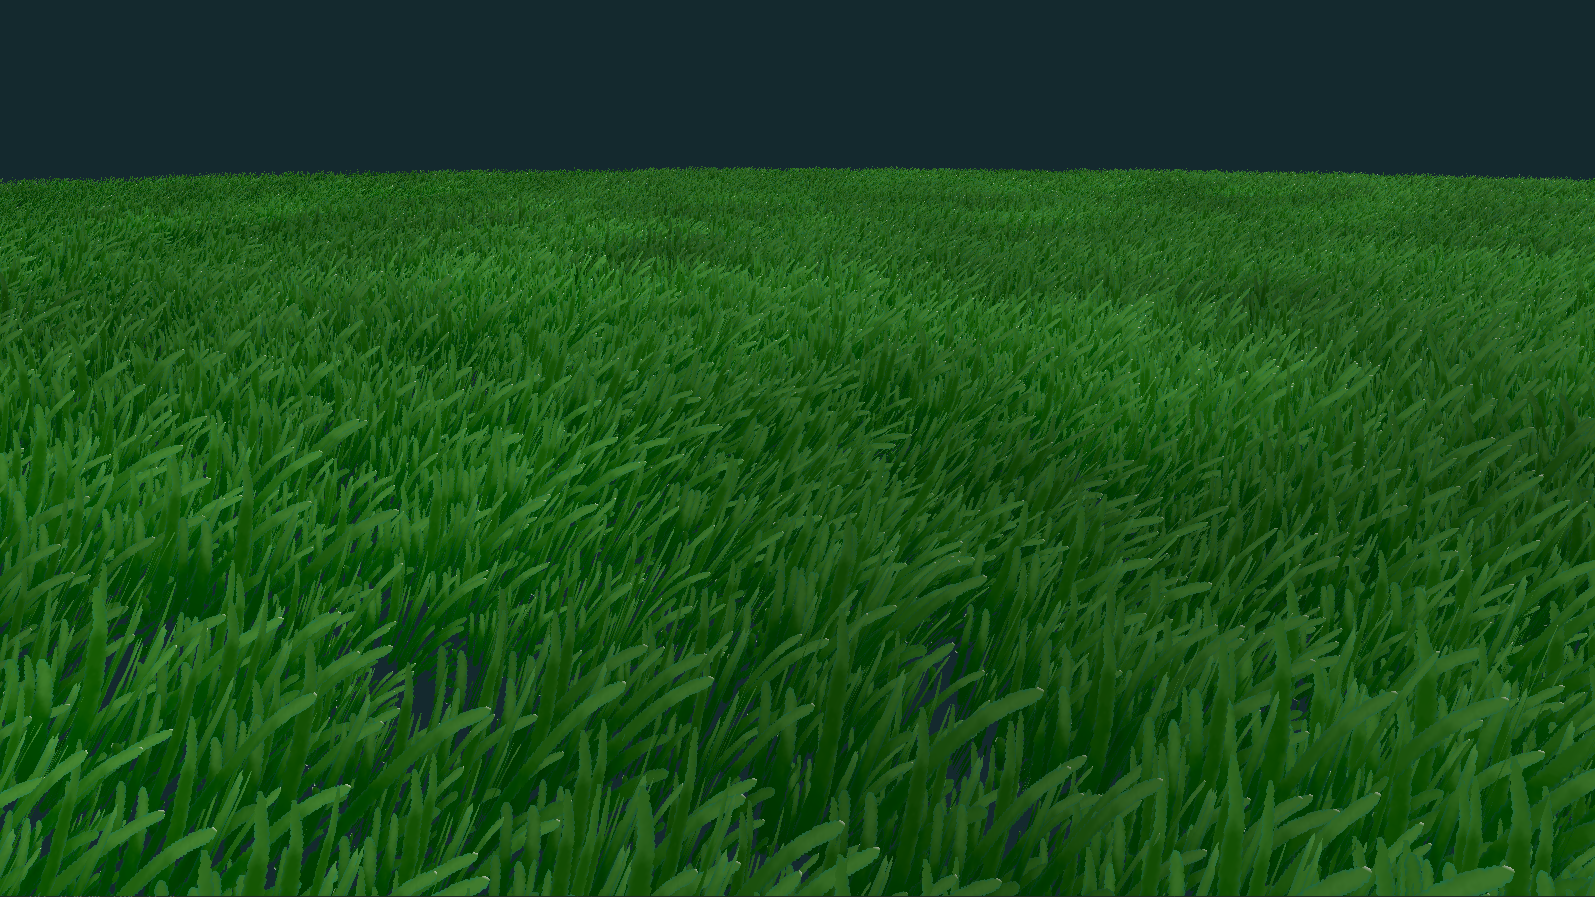
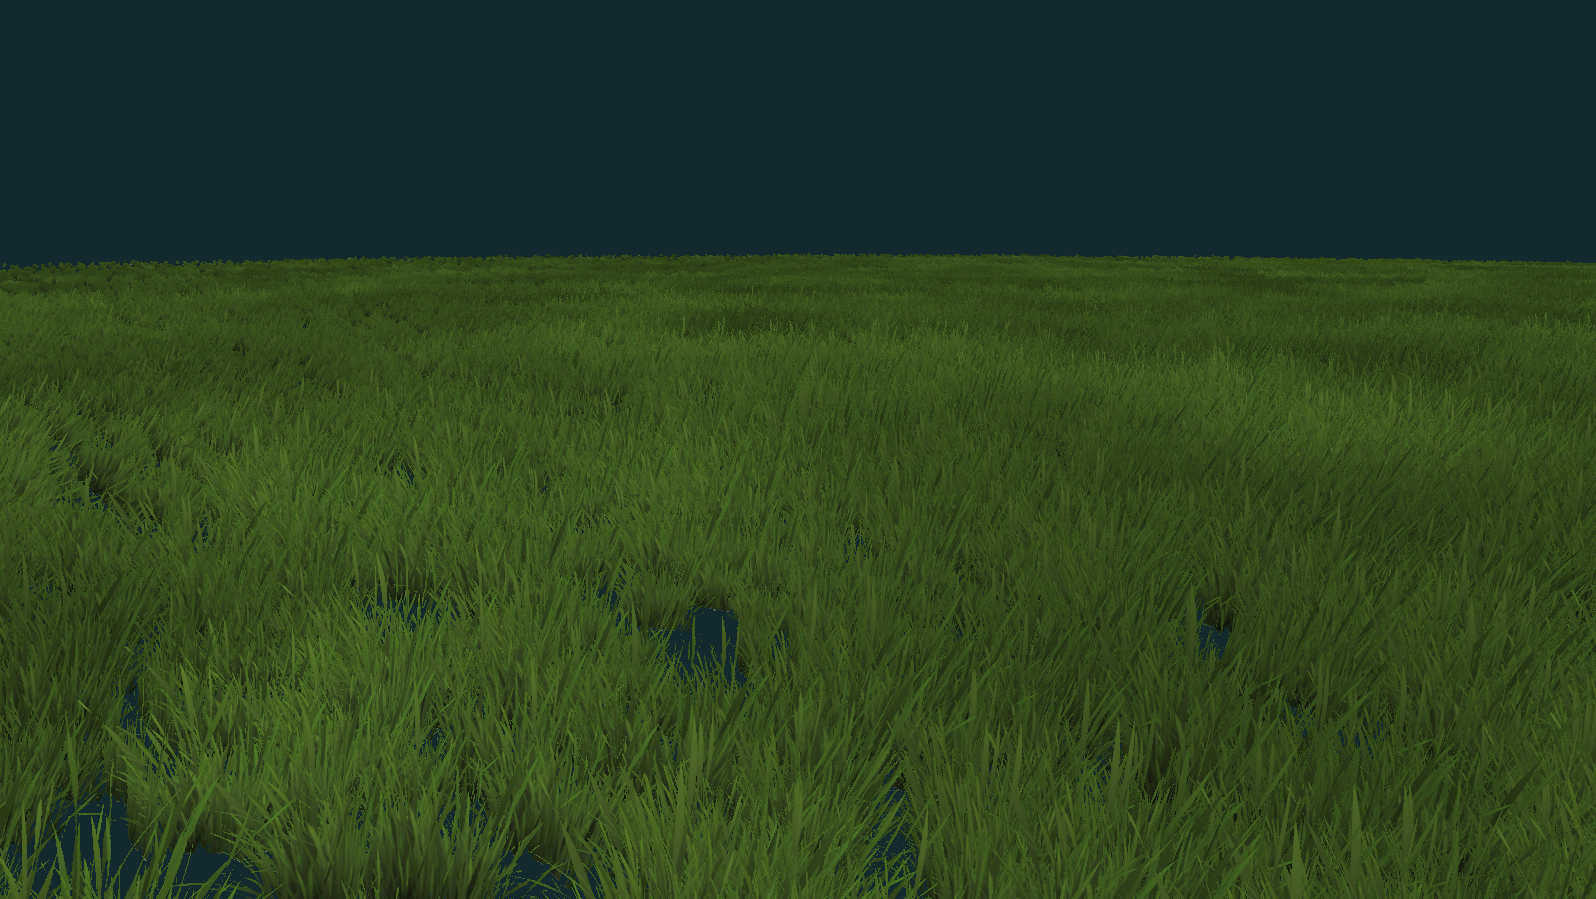
new grass texture and fix white edgesd

diff --git a/mgl/grass/core.py b/mgl/grass/core.py
@@ -138,14 +138,14 @@ class Texture:
         texture = self.ctx.texture(size=texture.get_size(), components=4,
                                    data=pygame.image.tostring(texture, 'RGBA'))
         # Mipmaps
-        # texture.filter = (moderngl.LINEAR_MIPMAP_LINEAR, moderngl.LINEAR)
+        texture.filter = (moderngl.LINEAR_MIPMAP_LINEAR, moderngl.LINEAR)
         # texture.filter = (moderngl.LINEAR_MIPMAP_NEAREST, moderngl.NEAREST)
         # texture.filter = (moderngl.NEAREST, moderngl.NEAREST)
         # texture.min_lod = -1000
         # texture.max_lod = 1000
-        # texture.build_mipmaps()
+        texture.build_mipmaps()
         # AF
-        # texture.anisotropy = 32.0
+        texture.anisotropy = 32.0
         # Add to list
         self.texture_count += 1
         self.texture_map[path] = self.texture_count
